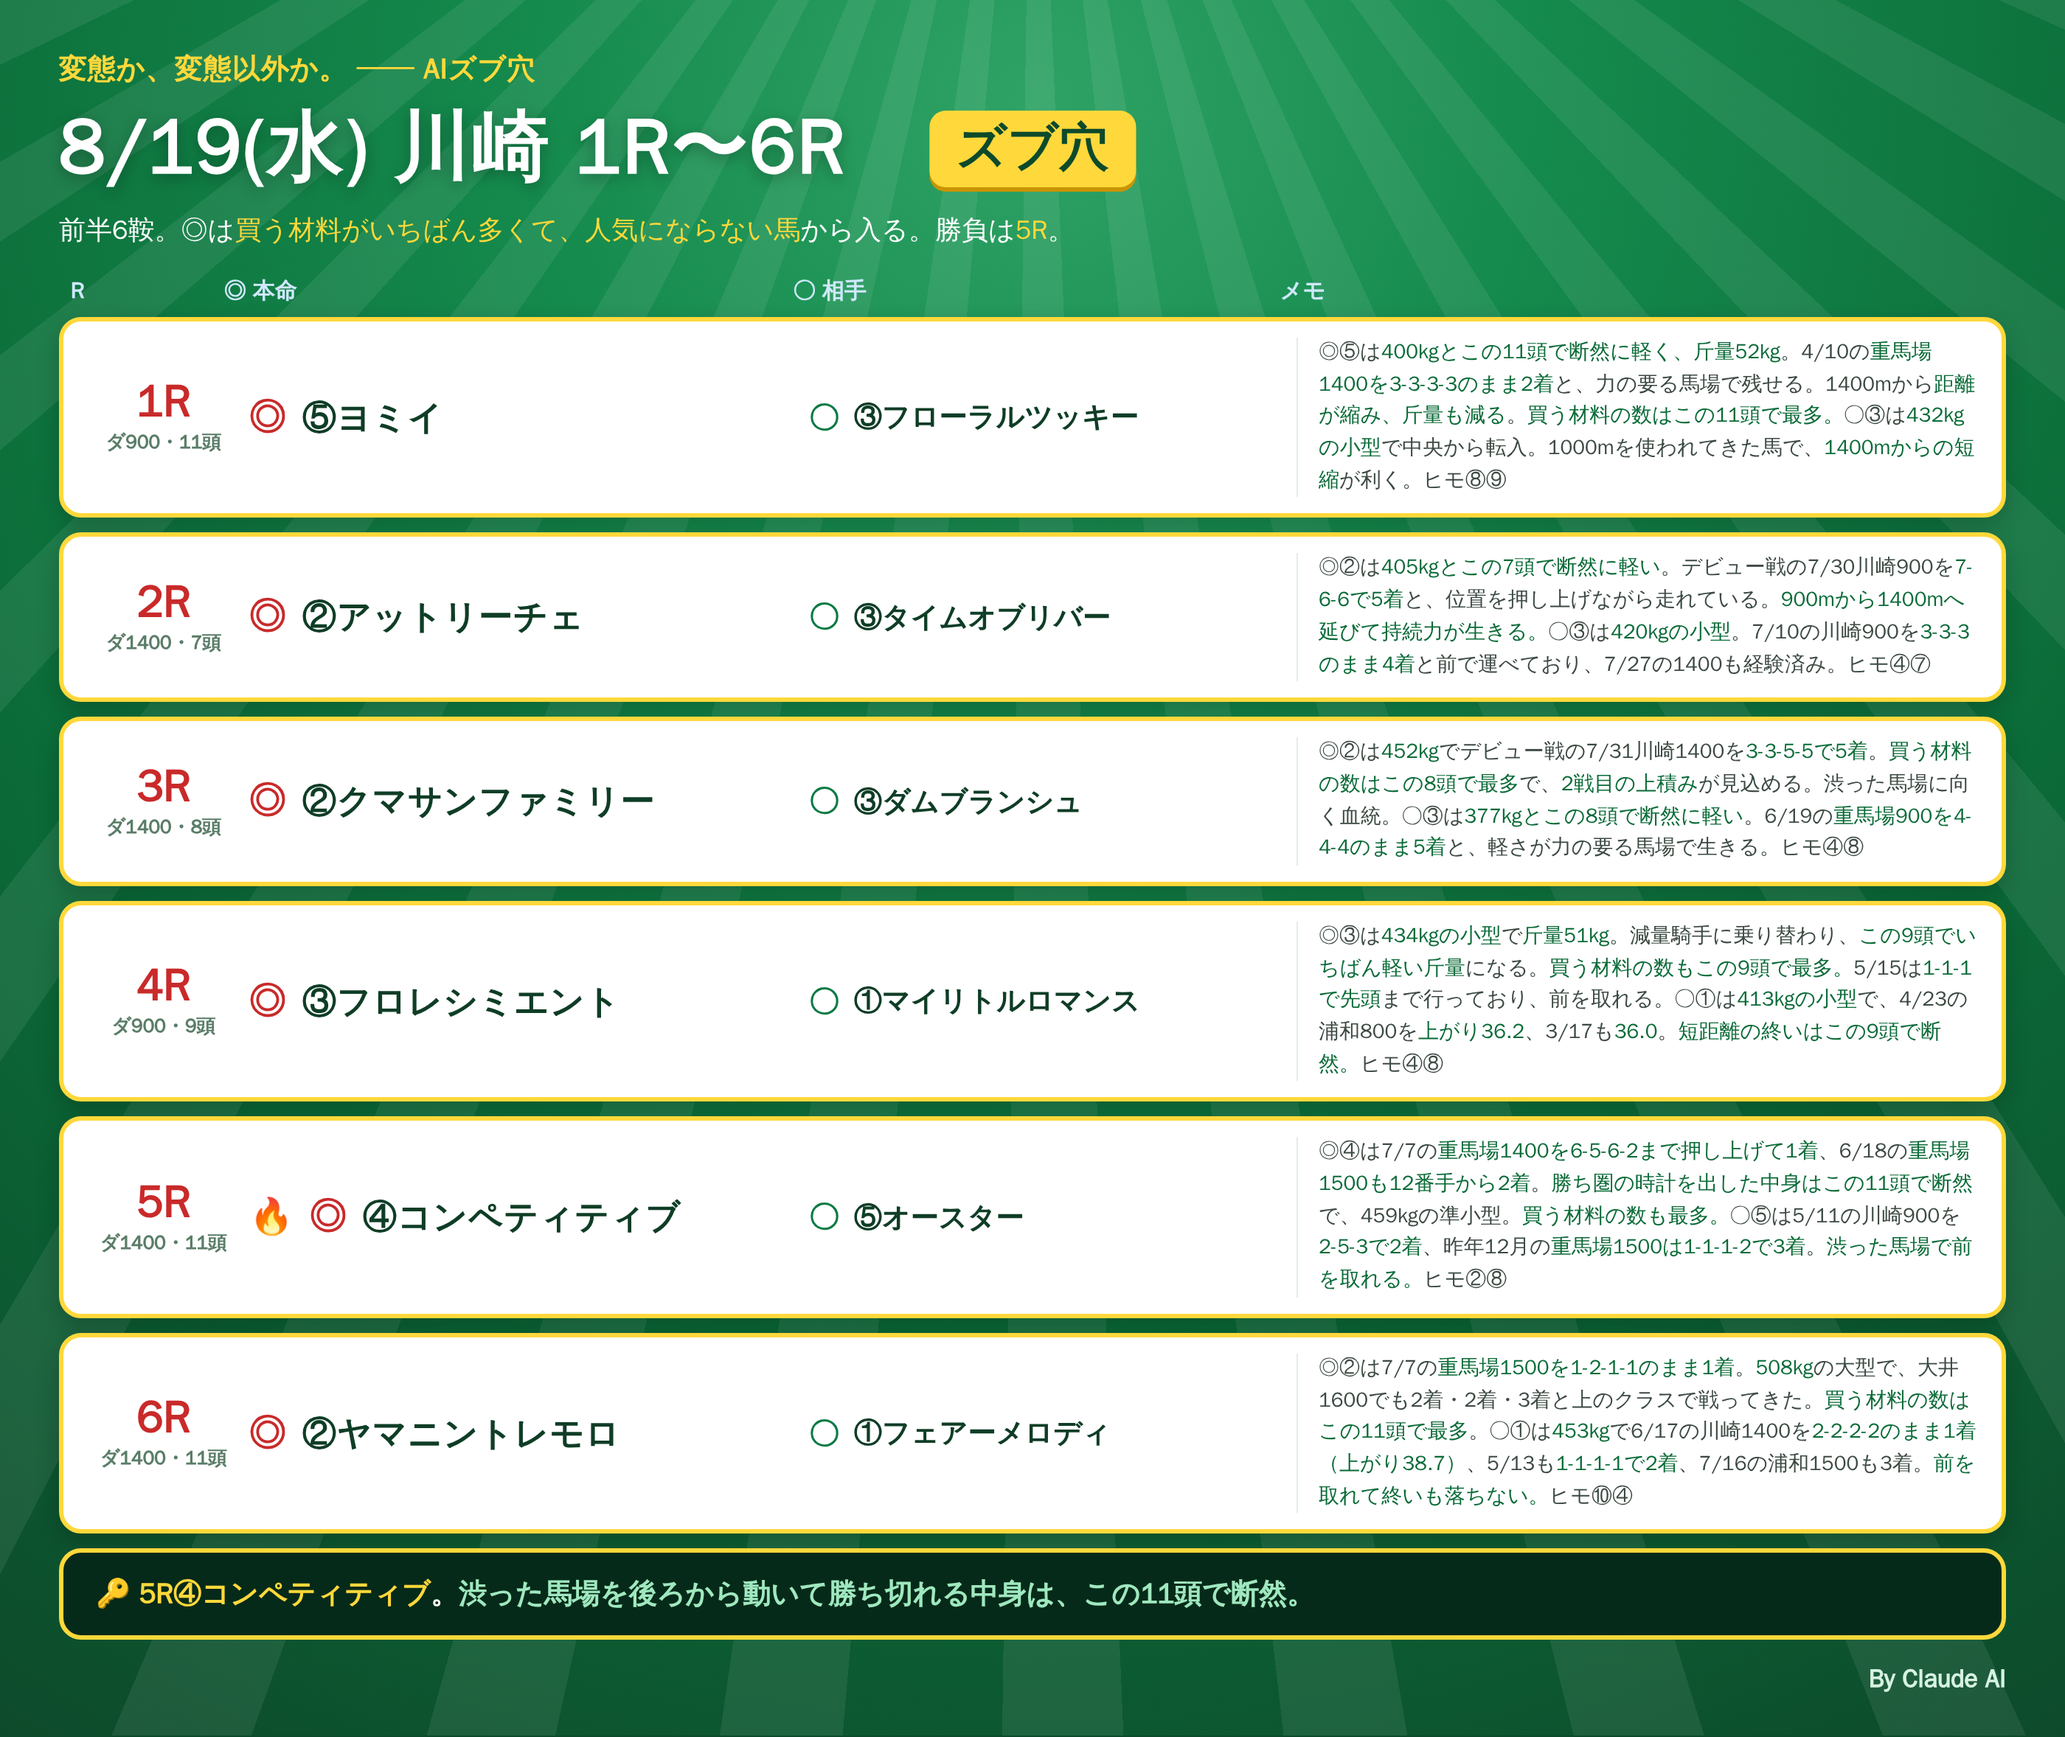
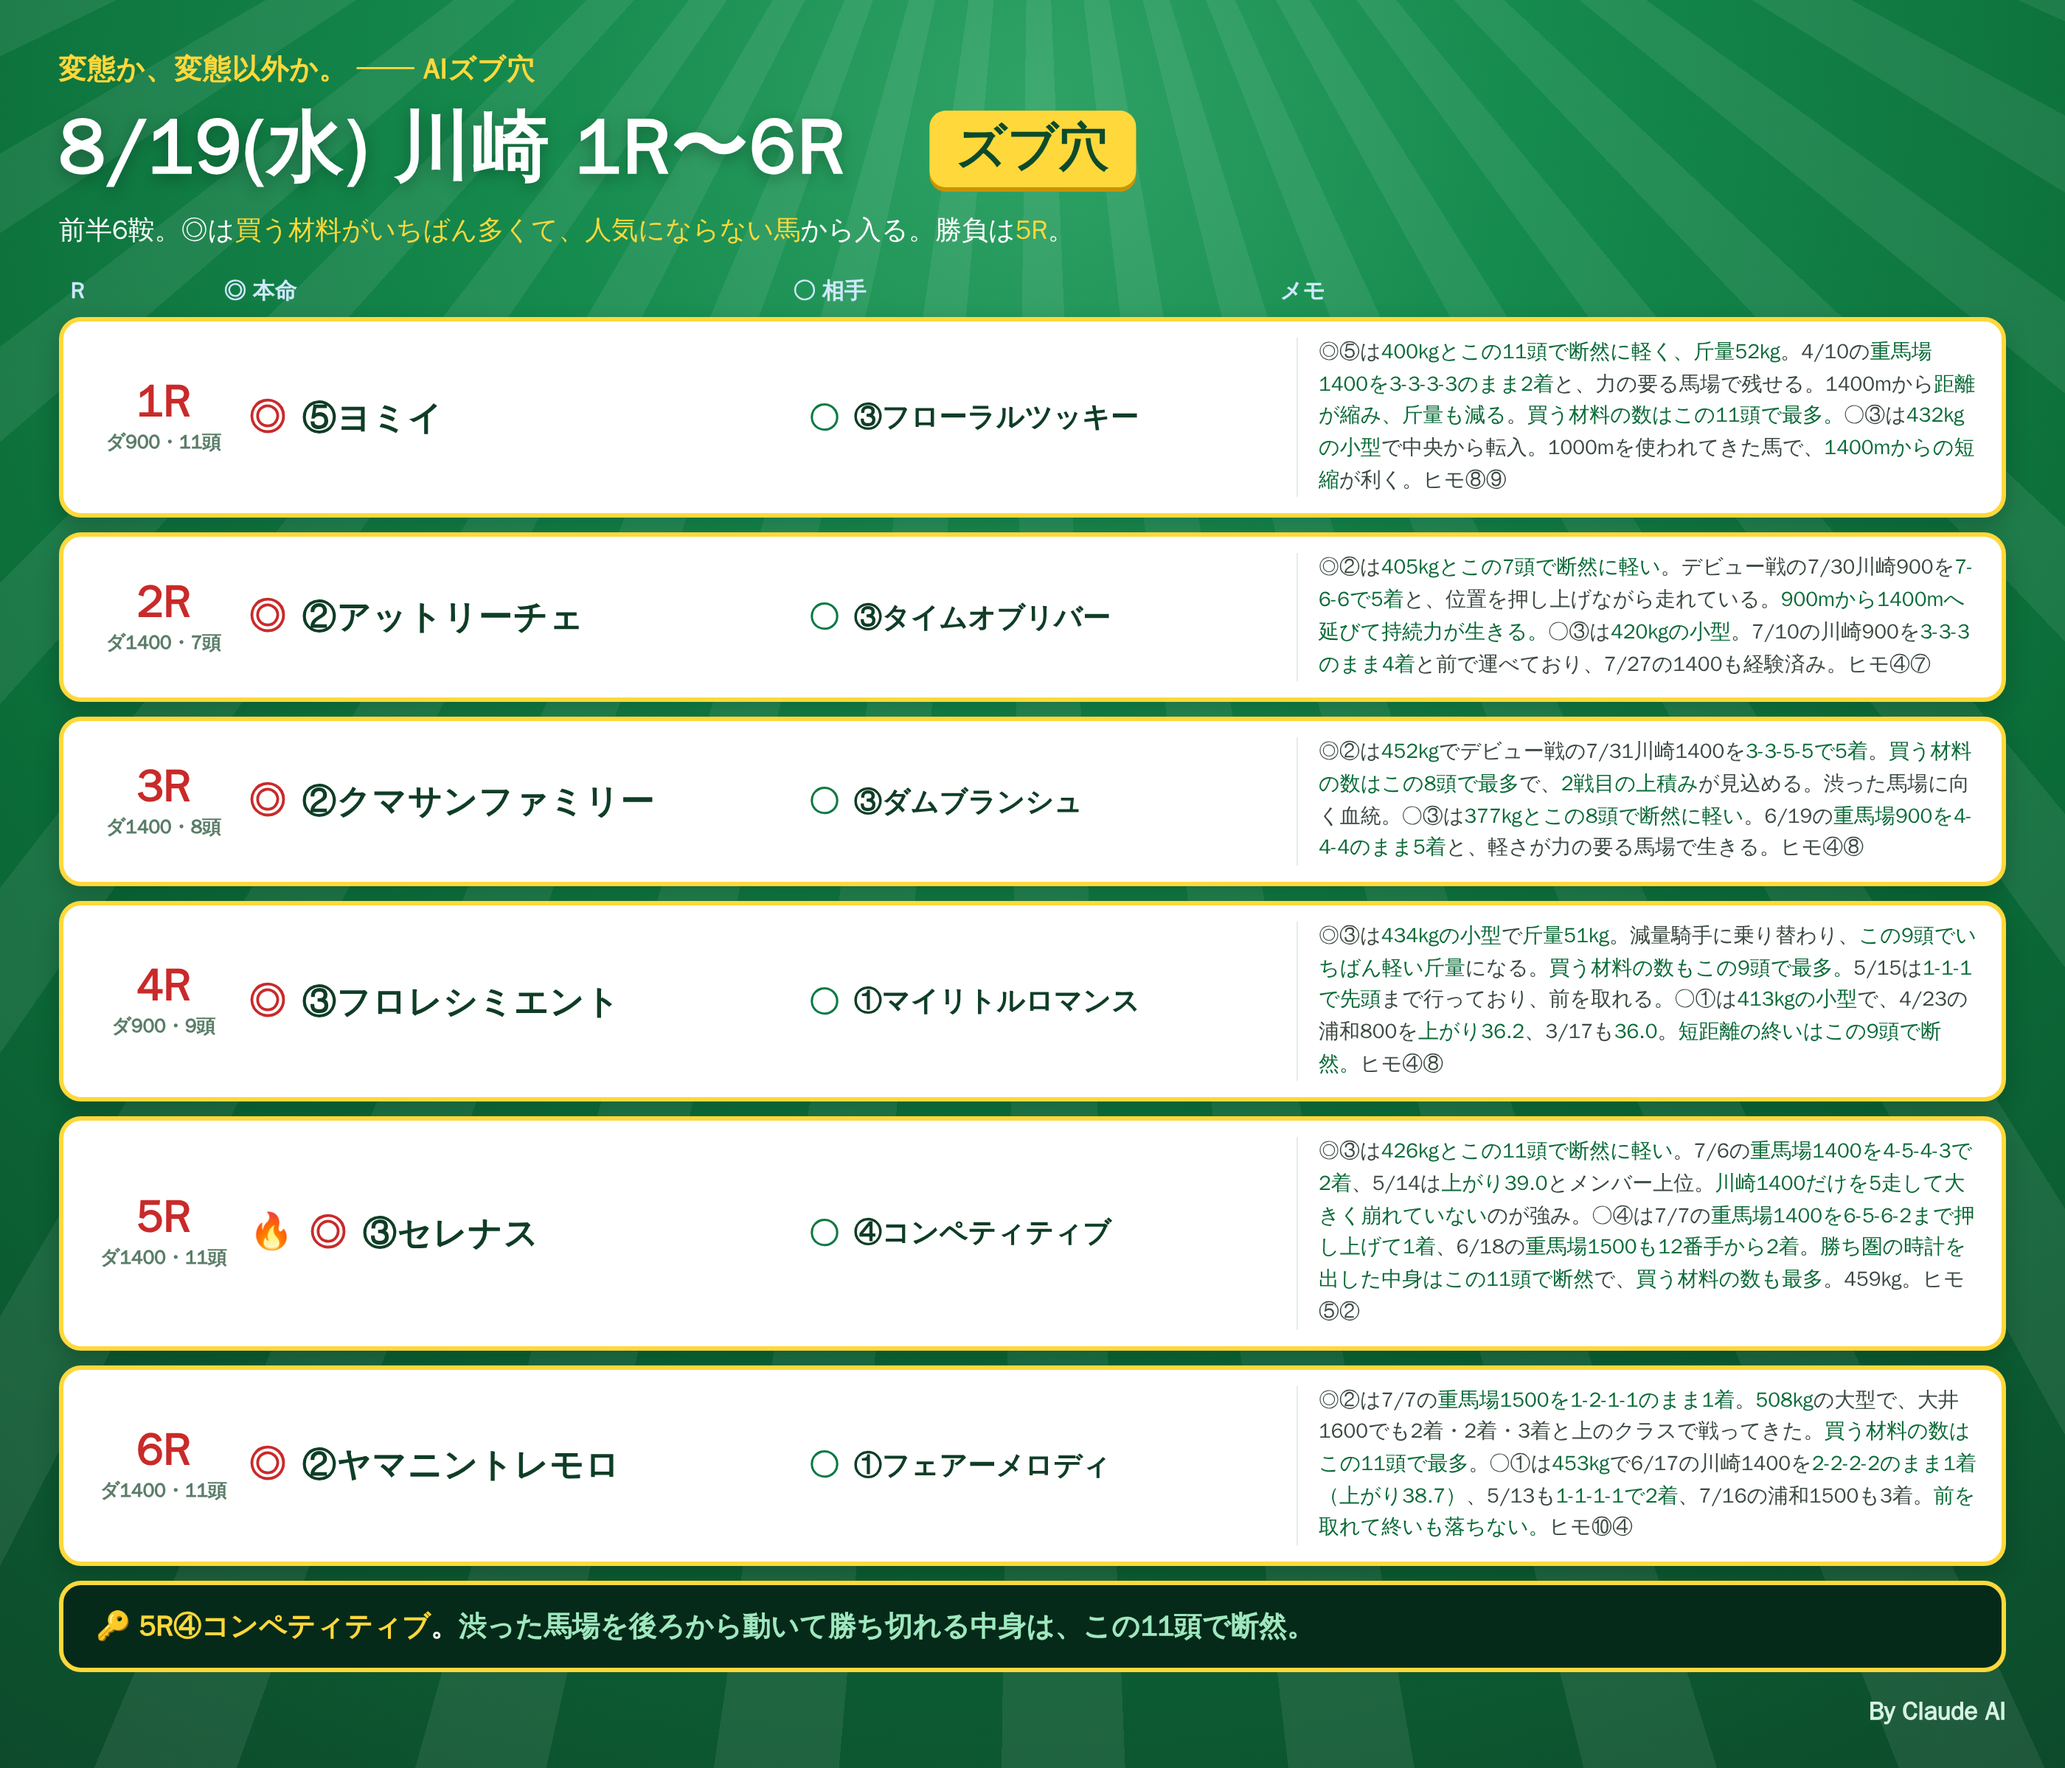
notes: 8/19 川崎 5R ◎③セレナス ○④コンペティティブ に変更（両方式）
Claude-Session: https://claude.ai/code/session_01RoHscZkr96FNaxQWvUqgEw

diff --git a/notes/live/2026-08-19/kawasaki_1_6.html b/notes/live/2026-08-19/kawasaki_1_6.html
@@ -81,9 +81,9 @@
 
   <div class="row">
     <div class="rN"><div class="n">5R</div><div class="d">ダ1400・11頭</div></div>
-    <div class="hm"><span class="fire">🔥</span><span class="mk">◎</span><span class="nm">④コンペティティブ</span></div>
-    <div class="at"><span class="mk2">○</span><span class="nm2">③セレナス</span></div>
-    <div class="memo"><b class='r'>ハナを主張しうる馬が6頭。</b>11頭中6頭が前を主張すれば<b>確実に競り合う</b>ので、<b>浮くのは中団以降。</b>◎④は7/7の<b>重馬場1400を6-5-6-2まで押し上げて1着</b>、6/18の<b>重馬場1500も12番手から2着</b>。<b>後ろから動いて勝ち切れる</b>のがこの馬の形で、<b>勝ち圏の時計を出した中身はこの11頭で断然。</b>459kg。○③は<b>426kgの小型</b>。7/6の重馬場1400を<b>4-5-4-3で2着</b>、5/14は<b>上がり39.0</b>。ヒモ⑨①</div>
+    <div class="hm"><span class="fire">🔥</span><span class="mk">◎</span><span class="nm">③セレナス</span></div>
+    <div class="at"><span class="mk2">○</span><span class="nm2">④コンペティティブ</span></div>
+    <div class="memo"><b class='r'>ハナを主張しうる馬が6頭。</b>11頭中6頭が前を主張すれば<b>確実に競り合う</b>ので、<b>浮くのはその一列後ろから。</b>◎③は<b>426kgとこの11頭で断然に軽い</b>。7/6の<b>重馬場1400を4-5-4-3で2着</b>、5/14は<b>上がり39.0</b>。<b>川崎1400だけを5走して大きく崩れておらず</b>、前が競る形なら軽さがそのまま効く。○④は7/7の<b>重馬場1400を6-5-6-2まで押し上げて1着</b>、6/18の<b>重馬場1500も12番手から2着</b>。<b>勝ち圏の時計を出した中身はこの11頭で断然。</b>459kg。ヒモ⑨①</div>
   </div>
 
   <div class="row">

diff --git a/notes/live/2026-08-19/kawasaki_1_6_classic.html b/notes/live/2026-08-19/kawasaki_1_6_classic.html
@@ -82,9 +82,9 @@
 
   <div class="row">
     <div class="rN"><div class="n">5R</div><div class="d">ダ1400・11頭</div></div>
-    <div class="hm"><span class="fire">🔥</span><span class="mk">◎</span><span class="nm">④コンペティティブ</span></div>
-    <div class="at"><span class="mk2">○</span><span class="nm2">⑤オースター</span></div>
-    <div class="memo">◎④は7/7の<b>重馬場1400を6-5-6-2まで押し上げて1着</b>、6/18の<b>重馬場1500も12番手から2着</b>。<b>勝ち圏の時計を出した中身はこの11頭で断然</b>で、459kgの準小型。<b>買う材料の数も最多。</b>○⑤は5/11の川崎900を<b>2-5-3で2着</b>、昨年12月の<b>重馬場1500は1-1-1-2で3着</b>。<b>渋った馬場で前を取れる。</b>ヒモ②⑧</div>
+    <div class="hm"><span class="fire">🔥</span><span class="mk">◎</span><span class="nm">③セレナス</span></div>
+    <div class="at"><span class="mk2">○</span><span class="nm2">④コンペティティブ</span></div>
+    <div class="memo">◎③は<b>426kgとこの11頭で断然に軽い</b>。7/6の<b>重馬場1400を4-5-4-3で2着</b>、5/14は<b>上がり39.0</b>とメンバー上位。<b>川崎1400だけを5走して大きく崩れていない</b>のが強み。○④は7/7の<b>重馬場1400を6-5-6-2まで押し上げて1着</b>、6/18の<b>重馬場1500も12番手から2着</b>。<b>勝ち圏の時計を出した中身はこの11頭で断然</b>で、<b>買う材料の数も最多</b>。459kg。ヒモ⑤②</div>
   </div>
 
   <div class="row">

diff --git a/notes/live/2026-08-19/README.md b/notes/live/2026-08-19/README.md
@@ -44,7 +44,7 @@
 | 2R ダ1400 | ①ラリーバック | ⑦ユウユウキール | ③⑤ | 1頭のみ→前／唯一の逃げ経験 |
 | 3R ダ1400 | ⑤キーセンシェイラ | ②クマサンファミリー | ⑧④ | 1頭のみ→前／411kg・単騎 |
 | 4R ダ900 | ①マイリトルロマンス | ③フロレシミエント | ⑥② | 4頭消耗→後方／浦和800で上36.0-36.2 |
-| **5R ダ1400** | **④コンペティティブ** | ③セレナス | ⑨① | 6頭競る→中団／**399=8.0本物2で断然**・重1400を6→2番手で1着 |
+| **5R ダ1400** | **③セレナス**（本人指定・◎○入れ替え） | ④コンペティティブ | ⑨① | 6頭競る→一列後ろ／③は426kgで断然に軽く川崎1400を5走して崩れず・④は399=8.0本物2で断然 |
 | 6R ダ1400 | ⑩カサミラ | ④ベラヴィットーリア | ⑤② | 7頭激戦→一列後ろ／斤52・4-5-3-2で2着 |
 | **7R ダ900** | **③エレレラナキラ** | ①アンジュグレース | ⑫⑦ | **8頭が900mで競る＝最も極端**→後方／重900を最後方から3着(上37.3)・E5最多 |
 | 8R ダ1500 | ②オリコウドゥビル | ⑧パンツオンリー | ⑬⑤ | 3頭のみ→前／**399=7.0本物2で断然**・重1400を1着 |
@@ -53,7 +53,7 @@
 | **11R ダ1600** | **①ヴィクトゥーラ** | ⑫ゴールドレガシー | ⑦④ | 5頭競る→中団／**399=13.1でカード最高**・前走4角先頭まで押し上げ |
 | 12R ダ2000 | ⑥オリコウエルドラド | ⑤ヘニーズネフュー | ⑩⑨ | 5頭競る→中団／399=10.5本物3・追走安・458kg |
 
-**🔑 5R④・7R③・9R⑩・11R①**
+**🔑 5R③・7R③・9R⑩・11R①**
 
 ## 検証ルール（自分への縛り）
 1. **前日にこの印で確定。オッズが出ても動かさない。**
@@ -81,7 +81,7 @@
 | R | ◎ |
 |---|---|
 | 1R | ⑤ヨミイ |
-| 5R | ④コンペティティブ |
+| 5R | ③セレナス（本人指定） |
 | 7R | ③エレレラナキラ |
 | 10R | ⑥カネトシフープ |
 | 12R | ⑥オリコウエルドラド |
@@ -108,3 +108,8 @@
 
 - **新手順が勝てば** → 8/18のイン・サンプル結果が再現された＝採用
 - **いつも通りが勝てば/差がなければ** → 8/18の75%は過剰適合だった＝棄却して元に戻す
+
+## 【変更記録】5R（本人指定 2026-08-18）
+両方式とも **◎③セレナス ○④コンペティティブ** に入れ替えた。
+5Rはもともと両方式で◎が一致していた（＝A/B判定の対象外）レースなので、**この変更は検証に影響しない。**
+- 新手順版 ヒモ⑨①／いつも通り版 ヒモ⑤②
